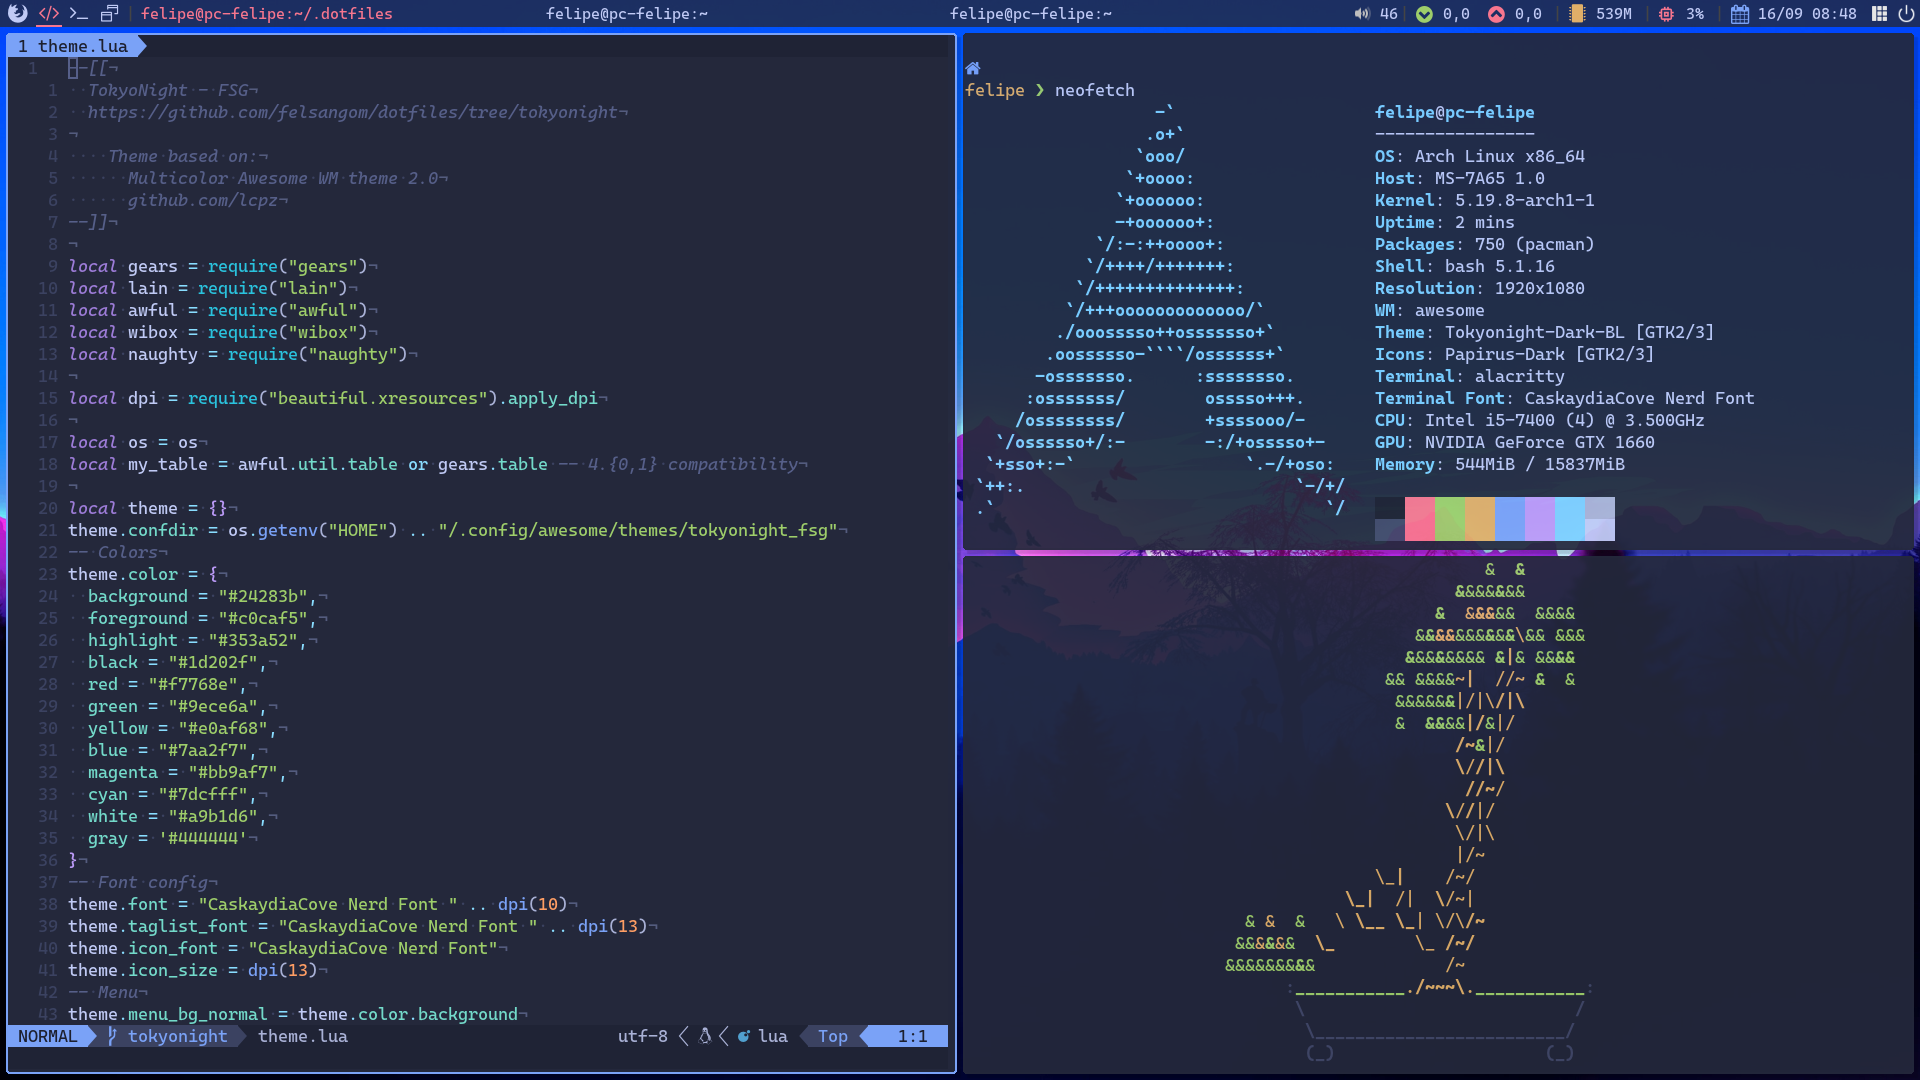
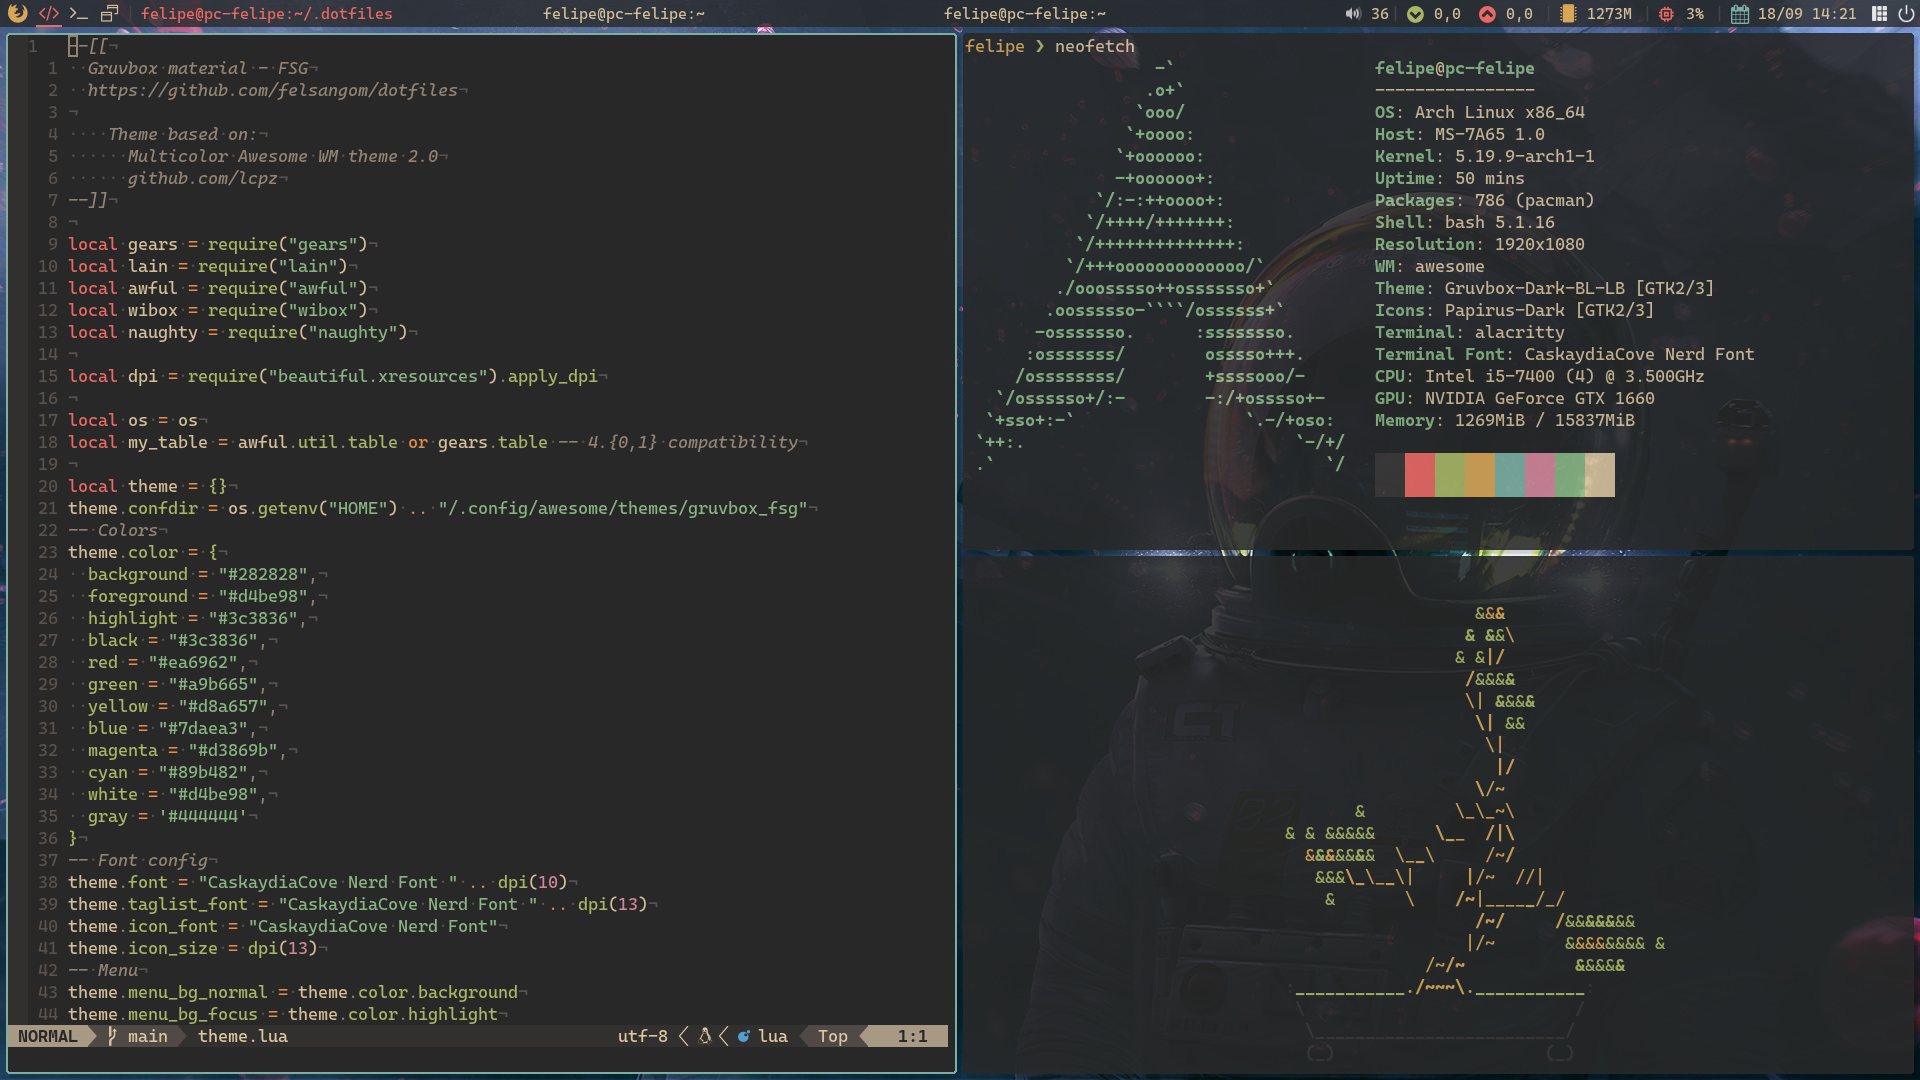
Updated README

diff --git a/README.md b/README.md
@@ -1,6 +1,6 @@
-# Felipe Gomes - dotfiles
+# My dotfiles
 
-My personal linux dotfiles and configs. I've modified the multicolor theme from [awesome-copycats](https://github.com/lcpz/awesome-copycats) and added a TokyoNight style and colors, among other improvements.
+My personal linux dotfiles and configs. I've modified the multicolor theme from [awesome-copycats](https://github.com/lcpz/awesome-copycats) and added a Gruvbox material style and colors, among other improvements.
 Bellow are a set of instructions on how to use it.
 
 ## AwesomeWM
@@ -27,16 +27,14 @@ Need [vim-plug](https://github.com/junegunn/vim-plug) installed to run the PlugI
 
 ## Rofi themes
 
-Get the simple-tokyonight theme from [https://github.com/lr-tech/rofi-themes-collection](https://github.com/lr-tech/rofi-themes-collection). I've modified it to be a bit wider and centered.
+Get gruvbox-dark-soft that ships with rofi.
 
 ## Screenshots
 
-![](https://github.com/felsangom/dotfiles/blob/tokyonight/screenshots/1.png)
+![](https://github.com/felsangom/dotfiles/blob/main/screenshots/1.png)
 
-![](https://github.com/felsangom/dotfiles/blob/tokyonight/screenshots/2.png)
-
-![](https://github.com/felsangom/dotfiles/blob/tokyonight/screenshots/3.png)
+![](https://github.com/felsangom/dotfiles/blob/main/screenshots/2.png)
 
 ## Wallpaper
 
-https://www.wallpaperflare.com/forest-landscape-sky-trees-nature-mountains-birds-man-wallpaper-grdac
+https://wallpaperaccess.com/digital-art-1920x1080
